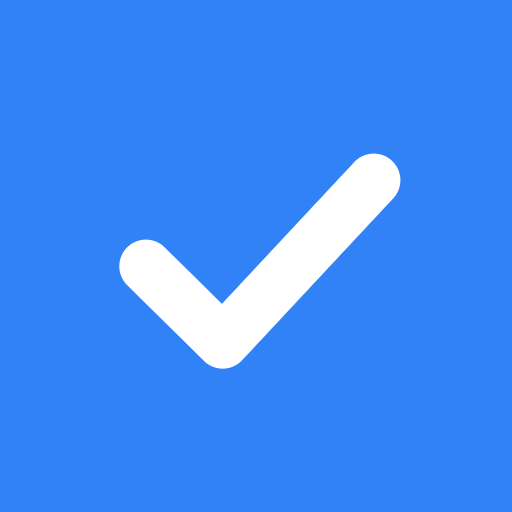
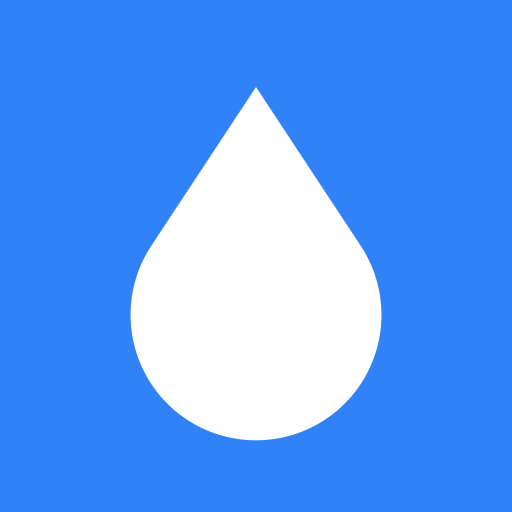
아이콘을 물방울로 교체
이름이 '생수' 이므로 체크 표시 대신 물방울을 쓴다. 물방울은 원과, 꼭지점에서
원에 그은 두 접선이 만드는 삼각형의 합집합으로 그렸다. 그래야 꼭지에서 몸통으로
이어지는 곡선이 접선이 되어 이음선이 보이지 않는다.

마스크 안전영역(중앙 80%) 안에 들어오도록 꼭지 0.17, 원 중심 0.615,
반지름 0.245 로 잡았다.

서비스워커 캐시 이름을 올렸다. 아이콘은 캐시 우선으로 내주므로 이름을 올리지
않으면 폰이 계속 옛 아이콘을 보여준다 (검증 중에 실제로 겪었다).

Changed region(s): [[0.2188, 0.1562, 0.7812, 0.875]]

diff --git a/sw.js b/sw.js
@@ -1,6 +1,6 @@
 /* 오프라인 동작용 서비스워커 */
 // 이름을 바꿀 때 올려준다. 그러면 옛 이름이 담긴 화면이 캐시에 남지 않는다
-const CACHE = 'saengsu-v2';
+const CACHE = 'saengsu-v3';
 const SHELL = [
   './',
   './index.html',
